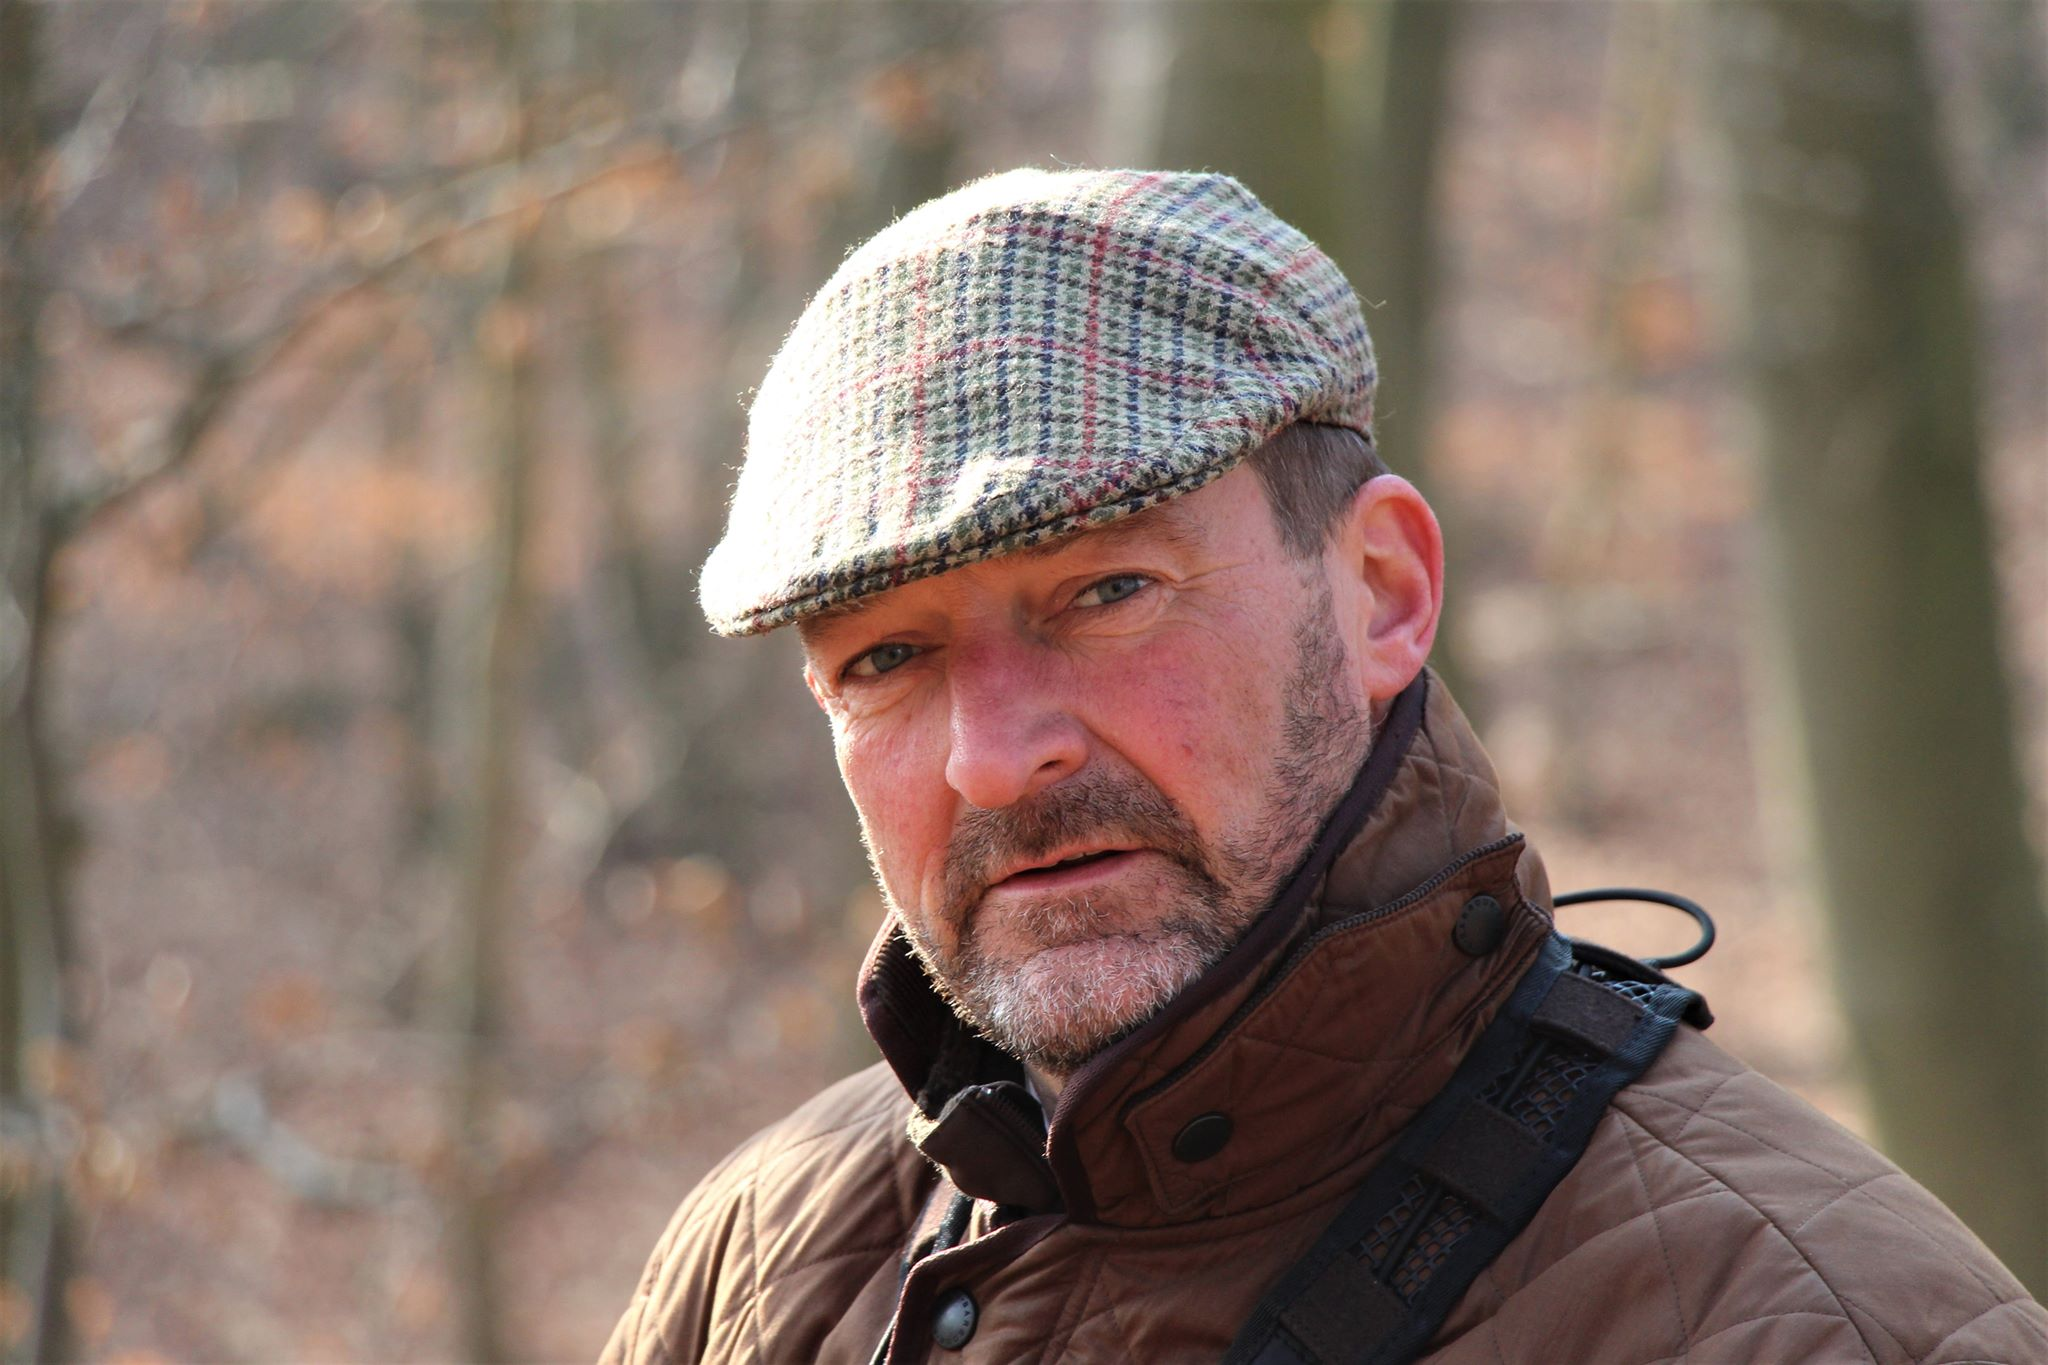
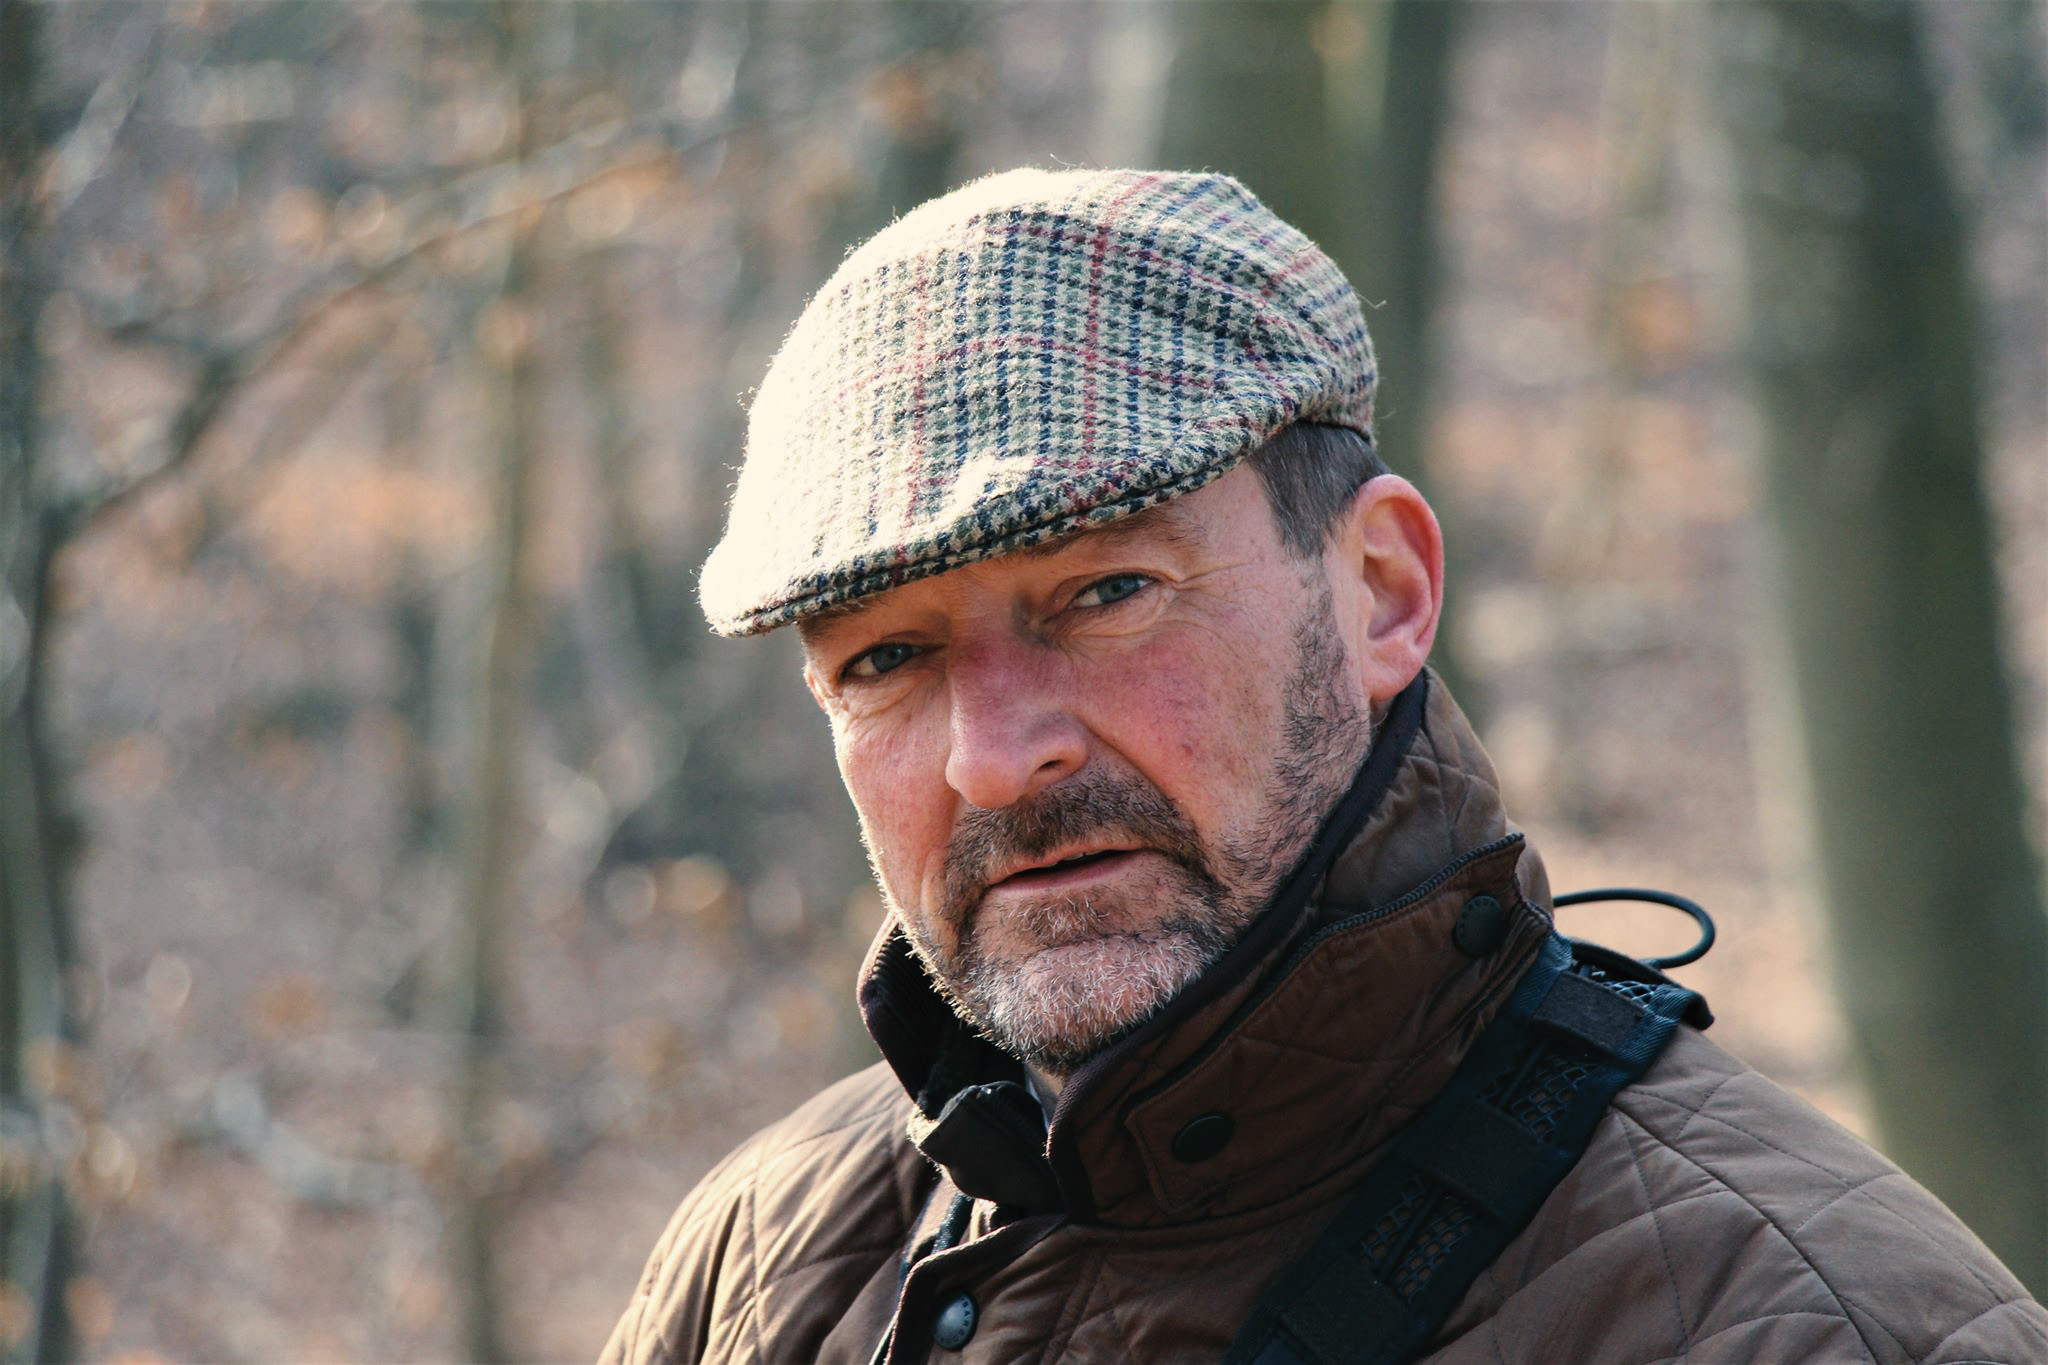
footer

diff --git a/jagtviden_site.html b/jagtviden_site.html
@@ -43,6 +43,7 @@
 
 
     <section id="jagtviden_site">
+        <p class="dato">13/12/2019</p>
         <h1>Valg af vagthund</h1>
         <div class="sectionwrapper">
             <div class="col">
@@ -69,6 +70,15 @@
                 <h3>Den gravsøgende jagthund</h3>
 
                 <p>Den gravsøgende jagthund er som navnet indikerer, en hund der har til opgave at opsøge grave og holde byttet i skak under jorden, eller drive det frem til jægerne. Det er typisk en lidt mindre hund, der skal kunne grave sig ned i små mørke underjordiske skakter og det er derfor også vigtigt at du træner en vedholden og modig hund til disse gravjagter. Den gravsøgende hund er livlig og ivrig, der vil være en del af det der sker omkring dem hele tiden. Opdragelsen skal være konsekvent, så du på den måde sikre dig den bedste jagthund, der vil give det bedst mulige udbytte af jagten. <i> Eksempler på den gravsøgende hund: Gravhunde, terrier, feist.</i></p>
+
+                <h3>Den stående jagthund</h3>
+
+                <p>Den stående jagthunds specielle egenskab er at den tager stand når den får færten af noget vildt. Dette kunne fx være fugle. Hunden lærer simpelthen, gennem træning og tæt relation med jægeren, at blive stående når den får færten af noget. Her står den så stille indtil jægeren enten kommer hen til byttet, eller giver signal til at hunden selv må medbringe byttet til jægeren. Mange forskellige racer kan bruges som stående jagthund, men her er nogle eksempler. <i> Setterracerne, pointer, hønsehunde, münsterländer. </i></p>
+
+                <h3>Den stødende og den apporterende jagthund</h3>
+
+                <p>Den stødende og den apporterende jagthund anvendes primært til klapjagt. Denne form for jagt kræver flere mennesker, og forgår på en såt hvor det er klappernes job, at klappe dyrene frem fra deres skjul. Hundens opgave er at apporterer byttet og få det frem for dets skjul. Det er derfor vigtigt at hunden er lydhør overfor kommando, hvis dette skal kunne lade sig gøre. <i> Eksempler på den stødende og den apporterende jagthund: Spaniel, retriever. </i></p>
+
             </div>
         </div>
 
@@ -78,8 +88,8 @@
         <div id="footer1">
             <h1>Kontakt</h1>
             <ul>
-                <li><a href="mailto: bl@mjoelnerhunting.com">Email: bl@mjoelnerhunting.com</a></li>
-                <li><a href="tel:+ 45 28 88 12 24">Telefon: +45 28 88 12 24</a></li>
+                <li><a href="mailto:bl@mjoelnerhunting.com">Email: bl@mjoelnerhunting.com</a></li>
+                <li><a href="tel:+4528881224">Telefon: +45 28 88 12 24</a></li>
                 <li><a href="forhandler.html">B2B-portal</a></li>
             </ul>
 

diff --git a/startside.html b/startside.html
@@ -106,27 +106,28 @@
     </section>
 
     <div class="footer_container">
-        <div id="footer1">
-            <h1>Kontakt</h1>
-            <ul>
-                <li><a href="mailto: bl@mjoelnerhunting.com">Email: bl@mjoelnerhunting.com</a></li>
-                <li><a href="tel:+ 45 28 88 12 24">Telefon: +45 28 88 12 24</a></li>
-                <li><a href="forhandler.html">B2B-portal</a></li>
-            </ul>
+        <div class="footer_container">
+            <div id="footer1">
+                <h1>Kontakt</h1>
+                <ul>
+                    <li><a href="mailto:bl@mjoelnerhunting.com">Email: bl@mjoelnerhunting.com</a></li>
+                    <li><a href="tel:+4528881224">Telefon: +45 28 88 12 24</a></li>
+                    <li><a href="forhandler.html">B2B-portal</a></li>
+                </ul>
+
+            </div>
+
+            <div id="footer2">
+                <h1>Følg os på Facebook</h1>
+                <a href="https://www.facebook.com/MJOELNERHUNTING/"><img src="billeder/mjoelner_hunting_fb.png" alt="facebook"></a>
+
+
+            </div>
 
         </div>
+        <footer><b>Mjoelner Hunting©</b> Copyright - all rights reserved. <b>CVR:</b> 39488523. <b>Adresse:</b> Ladefogedvej 2, 4180 Sorø, Danmark.</footer>
 
-        <div id="footer2">
-            <h1>Følg os på Facebook</h1>
-            <a href="https://www.facebook.com/MJOELNERHUNTING/"><img src="billeder/mjoelner_hunting_fb.png" alt="facebook"></a>
-
-
-        </div>
-
-    </div>
-    <footer><b>Mjoelner Hunting©</b> Copyright - all rights reserved. <b>CVR:</b> 39488523. <b>Adresse:</b> Ladefogedvej 2, 4180 Sorø, Danmark.</footer>
-
-    <script src="script.js"></script>
+        <script src="script.js"></script>
 </body>
 
 </html>

diff --git a/style.css b/style.css
@@ -770,11 +770,7 @@ p {
     background-position: 0 35%;
     max-width: none;
     /*    background-attachment: fixed;*/
-<<<<<<< HEAD
-    background-image: url(billeder/bil.jpg);
-=======
     background-image: url(billeder/kiggert_narrow.jpg);
->>>>>>> origin/master
 }
 
 
@@ -930,71 +926,14 @@ p {
     margin: 1.5rem 0 0.2rem 0;
 }
 
-
-
-
-
-
-
-
-
-
-
-
-
-
-
-
-
-
-
-
-
-
-
-
-
-
-
-
-
-
-
-
-
-
-
-
-
-
-
-
-
-
-
-
-
-
-
-
-
-
-
-
-
-
-
-
-
-
-
-
-
-
-
-
-
-
+#jagtviden_site .dato {
+    font-size: 0.7rem;
+    margin: 0;
+}
+
+#jagtviden_site h1 {
+    margin: 0 0 1rem 0;
+}
 
 
 
@@ -1006,6 +945,12 @@ p {
 /*           Klik Jagtviden              */
 
 /*           Produkt view              */
+
+
+
+
+
+
 
 #produktview_b #produktview {
     /*    max-width: 1200px;*/

diff --git a/jagtviden.html b/jagtviden.html
@@ -112,8 +112,8 @@
         <div id="footer1">
             <h1>Kontakt</h1>
             <ul>
-                <li><a href="mailto: bl@mjoelnerhunting.com">Email: bl@mjoelnerhunting.com</a></li>
-                <li><a href="tel:+ 45 28 88 12 24">Telefon: +45 28 88 12 24</a></li>
+                <li><a href="mailto:bl@mjoelnerhunting.com">Email: bl@mjoelnerhunting.com</a></li>
+                <li><a href="tel:+4528881224">Telefon: +45 28 88 12 24</a></li>
                 <li><a href="forhandler.html">B2B-portal</a></li>
             </ul>
 

diff --git a/forhandler.html b/forhandler.html
@@ -90,8 +90,8 @@
         <div id="footer1">
             <h1>Kontakt</h1>
             <ul>
-                <li><a href="mailto: bl@mjoelnerhunting.com">Email: bl@mjoelnerhunting.com</a></li>
-                <li><a href="tel:+ 45 28 88 12 24">Telefon: +45 28 88 12 24</a></li>
+                <li><a href="mailto:bl@mjoelnerhunting.com">Email: bl@mjoelnerhunting.com</a></li>
+                <li><a href="tel:+4528881224">Telefon: +45 28 88 12 24</a></li>
                 <li><a href="forhandler.html">B2B-portal</a></li>
             </ul>
 

diff --git a/klik_produkt.html b/klik_produkt.html
@@ -80,8 +80,8 @@
         <div id="footer1">
             <h1>Kontakt</h1>
             <ul>
-                <li><a href="mailto: bl@mjoelnerhunting.com">Email: bl@mjoelnerhunting.com</a></li>
-                <li><a href="tel:+ 45 28 88 12 24">Telefon: +45 28 88 12 24</a></li>
+                <li><a href="mailto:bl@mjoelnerhunting.com">Email: bl@mjoelnerhunting.com</a></li>
+                <li><a href="tel:+4528881224">Telefon: +45 28 88 12 24</a></li>
                 <li><a href="forhandler.html">B2B-portal</a></li>
             </ul>
 

diff --git a/om.html b/om.html
@@ -85,8 +85,8 @@
         <div id="footer1">
             <h1>Kontakt</h1>
             <ul>
-                <li><a href="mailto: bl@mjoelnerhunting.com">Email: bl@mjoelnerhunting.com</a></li>
-                <li><a href="tel:+ 45 28 88 12 24">Telefon: +45 28 88 12 24</a></li>
+                <li><a href="mailto:bl@mjoelnerhunting.com">Email: bl@mjoelnerhunting.com</a></li>
+                <li><a href="tel:+4528881224">Telefon: +45 28 88 12 24</a></li>
                 <li><a href="forhandler.html">B2B-portal</a></li>
             </ul>
 
